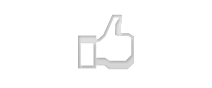
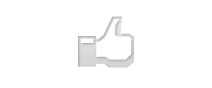
微调like图标。

diff --git a/WeTongji/Classes/NewsViewController.m b/WeTongji/Classes/NewsViewController.m
@@ -7,6 +7,7 @@
 //
 
 #import "NewsViewController.h"
+#import "WTClient.h"
 
 @interface NewsViewController ()
 
@@ -28,6 +29,7 @@
     [super viewDidLoad];
     // Do any additional setup after loading the view from its nib.
     [self configureNavBar];
+    [self loadMoreData];
 }
 
 - (void)viewDidUnload
@@ -53,6 +55,17 @@
 
 - (void)didClickFinishButton {
     [self.parentViewController dismissModalViewControllerAnimated:YES];
+}
+
+- (void)loadMoreData 
+{ 
+    WTClient *client = [WTClient client];
+    [client setCompletionBlock:^(WTClient *client) {
+        if(!client.hasError) {
+            
+        }
+    }];
+    [client getNewsList:1];
 }
 
 @end

diff --git a/WeTongji/Classes/WTClient.m b/WeTongji/Classes/WTClient.m
@@ -199,8 +199,17 @@ report_completion:
     else {
         [self.params setObject:[NSString stringWithFormat:@"1,2,3,4"] forKey:@"Channel_Ids"];
     }
-    if(page > 0)
-        [self.params setObject:[NSString stringWithFormat:@"%d", page] forKey:@"P"];
+    if(page <= 0)
+        page = 1;
+    [self.params setObject:[NSString stringWithFormat:@"%d", page] forKey:@"P"];
+    [self sendRequest];
+}
+
+- (void)getNewsList:(NSInteger)page {
+    [self.params setObject:@"News.GetList" forKey:@"M"];
+    if(page <= 0)
+        page = 1;
+    [self.params setObject:[NSString stringWithFormat:@"%d", page] forKey:@"P"];
     [self sendRequest];
 }
 

diff --git a/WeTongji/Classes/WTClient.h b/WeTongji/Classes/WTClient.h
@@ -30,5 +30,6 @@ typedef void (^WTCompletionBlock)(WTClient *client);
 + (id)client;
 
 - (void)getActivitesWithChannelIds:(NSString *)channelStatusStr page:(NSInteger)page;
+- (void)getNewsList:(NSInteger)page;
 
 @end
